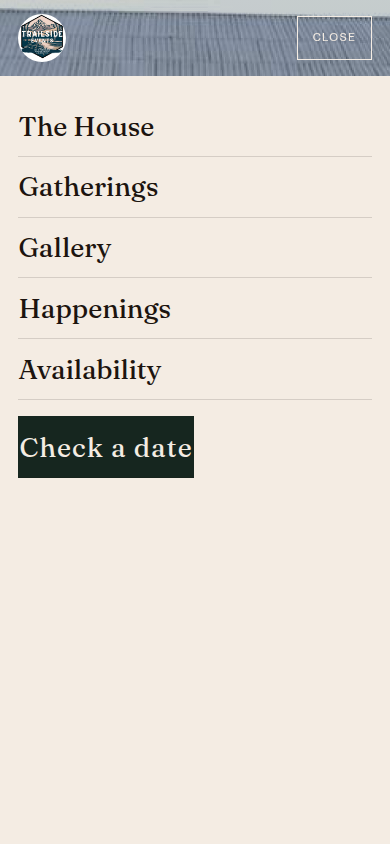
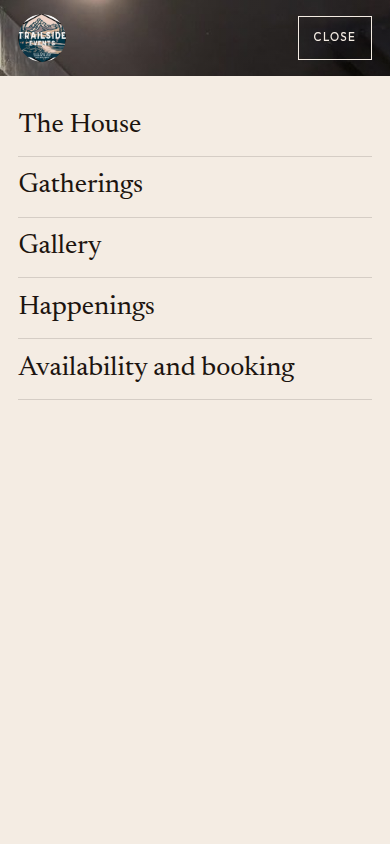
Rename the menu item to Availability and booking.
The header no longer repeats that destination as a Check a date button.

diff --git a/src/lib/site.ts b/src/lib/site.ts
@@ -42,7 +42,7 @@ export const nav = [
   { href: '/gatherings', label: 'Gatherings' },
   { href: '/gallery', label: 'Gallery' },
   { href: '/happenings', label: 'Happenings' },
-  { href: '/availability', label: 'Availability' },
+  { href: '/availability', label: 'Availability and booking' },
 ] as const;
 
 export const formEndpoint = import.meta.env.PUBLIC_FORM_ENDPOINT?.trim() || '';

diff --git a/docs/qa.md b/docs/qa.md
@@ -20,11 +20,11 @@ Pages: Home, The House, Gatherings, Gallery, Happenings, Availability, Inquire, 
 - The calendar is only on `/availability`. Inquire keeps the form and a Check availability link.
 - An open day is a link to `/inquire?date=YYYY-MM-DD`. Opening that URL set Preferred date to `2026-09-28`. The inquire page does not render the calendar.
 - `trailsidepa@gmail.com` is visible on the inquiry form.
-- At 768 and 390 the header collapses to Menu. Opening it shows The House, Gatherings, Gallery, Happenings, and Check a date on a cream panel (`aria-expanded` becomes true).
+- At 768 and 390 the header collapses to Menu. Opening it shows The House, Gatherings, Gallery, Happenings, and Availability and booking on a cream panel (`aria-expanded` becomes true). There is no separate Check a date control in the menu.
 
 ## Availability page
 
-The month grid, sample note, holiday note, legend, and display-only copy live on `/availability`. Availability is in the desktop and mobile navigation. The home Check a date button points there. No horizontal overflow at 1280, 768, or 390, and the header still fits at 1040.
+The month grid, sample note, holiday note, legend, and display-only copy live on `/availability`. The menu label is Availability and booking. The home hero still offers Check a date, which goes to that page. No horizontal overflow at 1280, 768, or 390.
 
 ## Facebook content pass
 
